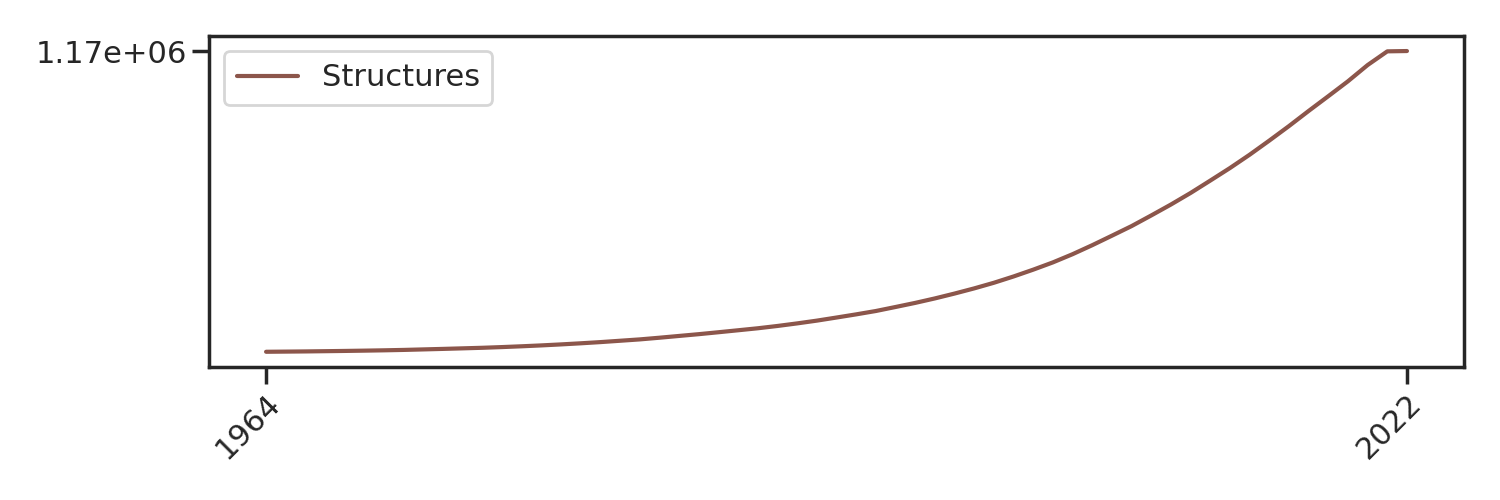
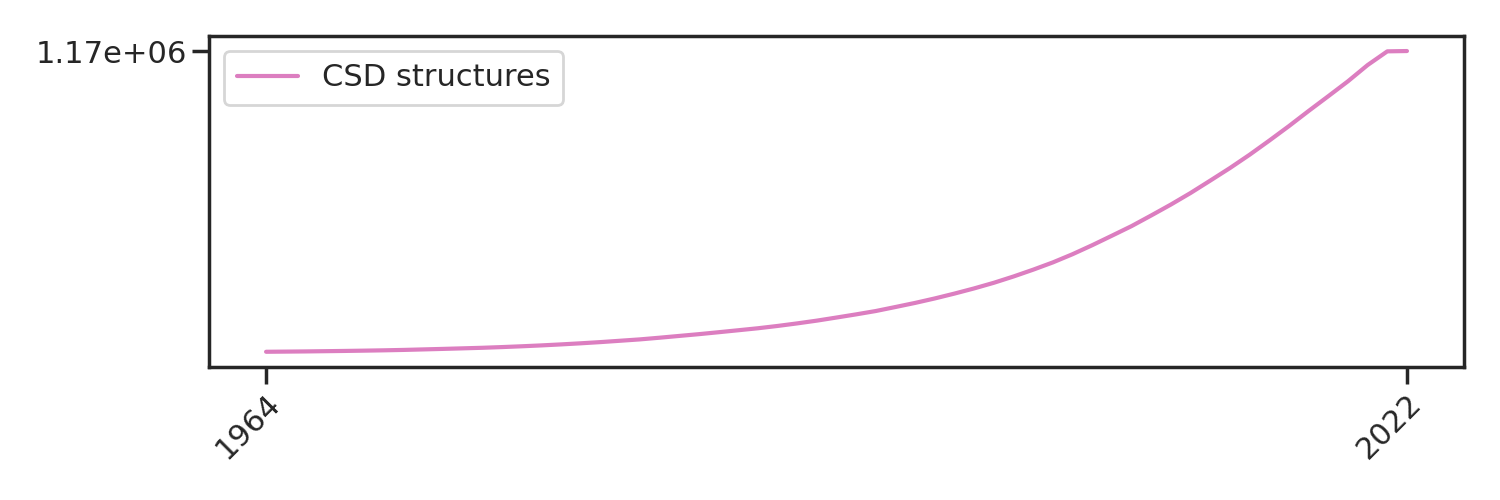
Finished plotting script

diff --git a/plot-entries.py b/plot-entries.py
@@ -9,8 +9,7 @@ from typing import Tuple
 
 # set Seaborn themes and color palettes
 sns.set_theme("poster", "ticks")
-palette1 = sns.color_palette("Paired")  # for visualizing data that comes in pairs
-palette2 = sns.color_palette("tab10")   # for visualizing other data
+palette2 = sns.color_palette("muted")
 
 # define some functions for loading the data
 def load_pubchem_data(filename : str) -> Tuple[list, list]:
@@ -87,9 +86,9 @@ RNAi_assay_dates, RNAi_assay_sources = load_pubchem_data(filename="./data/pubche
 
 # plot the PubChem data
 fig, ax = plt.subplots(1, 1, figsize=(15,5))
-ax.plot(substance_dates, substance_sources, label=f"Substances", color=palette2[0])
-ax.plot(assay_dates, assay_sources, label=f"Assays", color=palette2[1])
-ax.plot(RNAi_assay_dates, RNAi_assay_sources, label=f"RNAi assays", color=palette2[2])
+ax.plot(substance_dates, substance_sources, label=f"PubChem Substances", color=palette2[0])
+ax.plot(assay_dates, assay_sources, label=f"PubChem Assays", color=palette2[1])
+ax.plot(RNAi_assay_dates, RNAi_assay_sources, label=f"PubChem RNAi assays", color=palette2[2])
 ax.legend()
 ytick = max(substance_sources[-1], assay_sources[-1], RNAi_assay_sources[-1])
 ax.set(xticks=[substance_dates[i] for i in [0, 1, -1]], yticks=[ytick])
@@ -104,7 +103,7 @@ chembl_versions, chembl_dates, chembl_compounds, chembl_activities, chembl_assay
 
 # plot the PubChem data
 fig, ax = plt.subplots(1, 1, figsize=(15,5))
-ax.plot(chembl_dates, chembl_documents, color=palette2[3], label="Documents")
+ax.plot(chembl_dates, chembl_documents, color=palette2[3], label="ChEMBL documents")
 ax.legend()
 ytick = chembl_documents[-1]
 ax.set(xticks=[chembl_dates[i] for i in [0, 1, -1]], yticks=[ytick])
@@ -119,7 +118,7 @@ pdb_dates, pdb_total_entries, pdb_annual_entries = load_pdb_data(filename="./dat
 
 # plot the PDB data
 fig, ax = plt.subplots(1, 1, figsize=(15,5))
-ax.plot(pdb_dates, pdb_total_entries, color=palette2[4], label="Entries")
+ax.plot(pdb_dates, pdb_total_entries, color=palette2[4], label="PDB entries")
 ax.legend()
 ytick = pdb_total_entries[-1]
 ax.set(xticks=[pdb_dates[i] for i in [0, 1, -1]], yticks=[ytick])
@@ -134,7 +133,7 @@ csd_dates, csd_structures, csd_ave_n_atoms_per_structure = load_csd_data(filenam
 
 # plot the CSD data
 fig, ax = plt.subplots(1, 1, figsize=(15,5))
-ax.plot(csd_dates, np.cumsum(csd_structures), color=palette2[5], label="Structures")
+ax.plot(csd_dates, np.cumsum(csd_structures), color=palette2[6], label="CSD structures")
 ax.legend()
 ytick = np.cumsum(csd_structures)[-1]
 ax.set(xticks=[csd_dates[i] for i in [0, -1]], yticks=[ytick])
